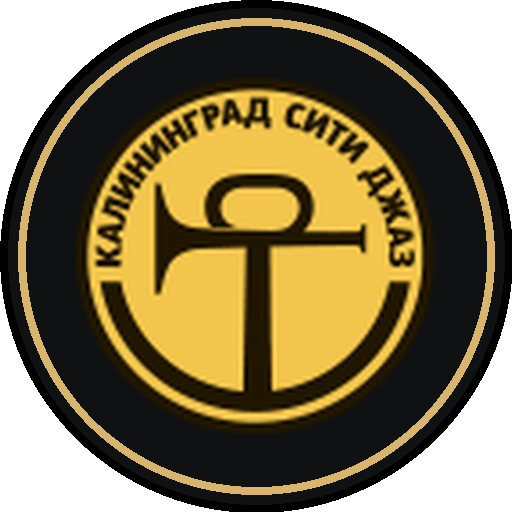
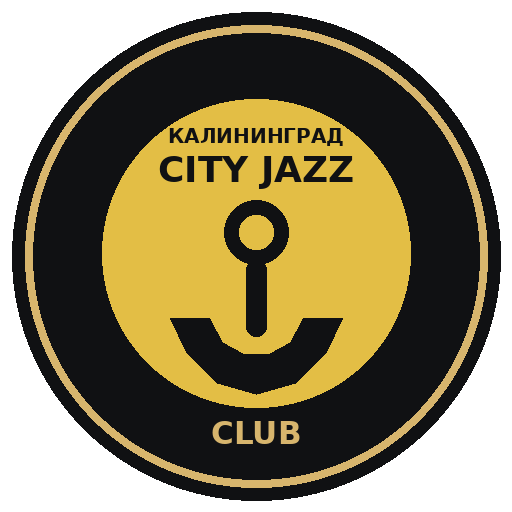
Fix venue medallion artwork QA

diff --git a/site/src/assets/organizers/source/README.md b/site/src/assets/organizers/source/README.md
@@ -1,6 +1,6 @@
 # Organizer medallion source assets
 
-Retrieved: 2026-06-29; `dom-kitoboya` social avatar rechecked 2026-07-01; SVG/WebP runtime pass checked 2026-07-02; venue gap medallions added 2026-07-03; venue visual tuning/WebP contract pass added 2026-07-04.
+Retrieved: 2026-06-29; `dom-kitoboya` social avatar rechecked 2026-07-01; SVG/WebP runtime pass checked 2026-07-02; venue gap medallions added 2026-07-03; venue visual tuning/WebP contract pass added 2026-07-04; seven-item Gemini/QA repair pass added 2026-07-04.
 
 These files are official/source-faithful inputs for the first event-page organizer medallions. Final runtime assets live in `site/public/assets/organizers/`.
 
@@ -21,15 +21,15 @@ These files are official/source-faithful inputs for the first event-page organiz
 | `dramteatr39` | Калининградский драматический театр | https://dramteatr39.ru/ | https://dramteatr39.ru/img/logo.svg?v=2 | `/assets/organizers/dramteatr39.svg` | Официальный горизонтальный SVG масштабирован и обрезан кругом до левого театрального знака; фон сделан фирменно-тёмным для белого исходника. |
 | `muzteatr39` | Калининградский музыкальный театр | https://muzteatr39.ru/ | https://muzteatr39.ru/wp-content/uploads/image_theme/logo2.png | `/assets/organizers/muzteatr39.webp` (`.png` fallback) | Официальный квадратный PNG пересобран как WebP-primary медальон без трассировки; фон затемнён для контраста белого знака. |
 | `dom-iskusstv` | Калининградский театр эстрады / Дом искусств | https://домискусств39.рф/ | https://static.tildacdn.com/tild3965-6438-4135-a233-383865633034/svg.svg | `/assets/organizers/dom-iskusstv.svg` | Официальный Tilda SVG wordmark Театра эстрады/Дома искусств встроен в круглый медальон. |
-| `city-jazz-club` | Калининград Сити Джаз Клуб | https://londonpub.ru/cityjazz/events | https://static.tildacdn.com/tild6331-6539-4430-a531-343262333939/logojazz.png | `/assets/organizers/city-jazz-club.webp` (`.png` fallback) | Логотип клубной площадки оттриммирован, отцентрирован и пересобран как WebP-primary; это отдельный venue-medallion, не фестивальный Kaliningrad City Jazz. |
-| `rostec-arena` | Ростех Арена | https://t.me/rostec_arena | public Telegram profile avatar | `/assets/organizers/rostec-arena.svg` | Чистый статический логотип на сайте не найден; форма взята из публичного Telegram-аватара официального канала и вручную пересобрана как чистый SVG с полным синим кругом. |
-| `bar-bastion` | Бар Бастион | https://vk.com/bar_bastion | public VK avatar `bar-bastion.vk-avatar-20260704.jpg` | `/assets/organizers/bar-bastion.webp` (`.png` fallback) | Публичный VK-аватар извлечён из страницы без VK API и заменяет временный initials badge. |
-| `signal` | Сигнал | https://signalcommunity.timepad.ru/ | Timepad organization logo `logo_org_265887.jpg` | `/assets/organizers/signal.webp` (`.png` fallback) | Timepad organization logo served WebP-primary; no edge-trace/vectorization. |
+| `city-jazz-club` | Калининград Сити Джаз Клуб | https://londonpub.ru/cityjazz/events | https://static.tildacdn.com/tild6331-6539-4430-a531-343262333939/logojazz.png (`recheck-20260704/city-jazz-club.official-logojazz.png`) | `/assets/organizers/city-jazz-club.svg` (+ PNG QA fallback) | Низкое разрешение official Tilda PNG больше не масштабируется как runtime raster: круглый знак вручную пересобран в crisp SVG с золотым диском, центральным якорным знаком и крупной читаемой подписью CITY JAZZ; это отдельный venue-medallion, не фестивальный Kaliningrad City Jazz. |
+| `rostec-arena` | Ростех Арена | https://www.rostec-arena.ru/ | https://www.rostec-arena.ru/theme/src/logo.svg (`recheck-20260704/rostec-arena.official-logo.svg`) | `/assets/organizers/rostec-arena.svg` (+ PNG QA fallback) | Официальный SVG-логотип сайта встроен без ручной перерисовки: сохранены фирменные голубые полосы и белый wordmark на синем градиентном круге. |
+| `bar-bastion` | Бар Бастион | https://vk.com/bar_bastion | public VK avatar `bar-bastion.vk-avatar-20260704.jpg` | `/assets/organizers/bar-bastion.webp` (`.png` fallback) | VK-аватар маскируется во внутренний круг, а золотая бренд-обводка рисуется последней; разрывы окружности от квадратного overlay устранены. |
+| `signal` | Сигнал | https://t.me/signalkld + https://signalcommunity.timepad.ru/ | Telegram avatar `recheck-20260704/signal.telegram-avatar-20260704.jpg`; Timepad `logo_org_265887.jpg` | `/assets/organizers/signal.svg` (+ PNG/WebP QA fallback) | Убран белый прямоугольник внутри тёмного круга; овальный знак «СИГНАЛ» аккуратно реконструирован как чистый SVG на белом круге; внутренние oval-strokes убраны, чтобы не было пересечений с текстом; без edge-trace shortcut. |
 | `mumod` | Музей курортной моды | https://mumod.ru/ | https://mumod.ru/wp-content/themes/mumod/images/logo.svg | `/assets/organizers/mumod.svg` | Официальный SVG-логотип с сайта музея встроен в светлый круглый медальон. |
 | `kldzoo` | Калининградский зоопарк | https://kldzoo.ru/ | https://kldzoo.ru/local/templates/s1/img/logo.png | `/assets/organizers/kldzoo.webp` (`.png` fallback) | Официальный квадратный PNG увеличен и отдаётся WebP-primary; внешняя салатовая обводка заменена на нейтральную. |
-| `locostandup` | Стендап-клуб «Локация» | https://t.me/locostandup | public Telegram profile avatar | `/assets/organizers/locostandup.webp` (`.png` fallback) | Использован публичный Telegram-аватар официального канала; runtime WebP-primary. |
-| `kaliningrad-art-museum` | Калининградский музей изобразительных искусств | https://kaliningradartmuseum.ru/ | https://kaliningradartmuseum.ru/local/templates/museum2023/images/logo-footer.png | `/assets/organizers/kaliningrad-art-museum.webp` (`.png` fallback) | Официальный footer PNG разложен как знак сверху и подпись ниже; runtime WebP-primary. |
+| `locostandup` | Стендап-клуб «Локация» | https://locostandup.ru/ | https://img3.creatium.ru/disk2/ee/53/e9/5338346aed3353ce0b7a71e35231aeda9e/lokaciya.svg (`recheck-20260704/locostandup.official-logo.svg`) | `/assets/organizers/locostandup.svg` (+ PNG/WebP QA fallback) | Telegram microphone avatar replaced by the official site vector wordmark; light circle + red brand ring removes the unfinished square/ring crop. |
+| `kaliningrad-art-museum` | Калининградский музей изобразительных искусств | https://www.kaliningradartmuseum.ru/ | homepage inline SVG `recheck-20260704/kaliningrad-art-museum.official-inline-logo.svg`; footer PNG still kept as source | `/assets/organizers/kaliningrad-art-museum.svg` (+ PNG QA fallback) | Фон заменён на официальный бордовый `#871B30` из SVG/CSS сайта; медальон стал SVG с официальным знаком сверху и читаемой короткой подписью `МУЗЕЙ ИЗО`. |
 | `brachert` | Дом-музей Германа Брахерта | https://hbrachert.ru/ | https://hbrachert.ru/bitrix/templates/brachert/images/logo-br.png | `/assets/organizers/brachert.webp` (`.png` fallback) | Официальный PNG-логотип hbrachert.ru отдаётся WebP-primary. |
-| `ruin-keepers` | Хранители руин | https://ruin-keepers.ru/ | official site PNG logo `ruin-keepers.logo.png` | `/assets/organizers/ruin-keepers.svg` | Официальный сайт даёт raster PNG-логотип; для медальона знак башни/сердца вручную реконструирован как простой векторный SVG. |
+| `ruin-keepers` | Хранители руин | https://ruin-keepers.ru/ | official 1-bit PNG logo `recheck-20260704/ruin-keepers.official-logo.png` | `/assets/organizers/ruin-keepers.svg` (+ PNG/WebP QA fallback) | Traced вариант отклонён на QA как недоделанный; знак вручную пересобран как чистый SVG по официальному мотиву башни/сердца: замкнутая башня и сердце без грубых пересечений. |
 
 No OpenAI image generation/editing was used. The medallions were produced by local SVG rendering/vectorization, official SVG wrapping, source cropping/recomposition, and PNG fallback export. If no SVG source/vector-safe source exists, browser-facing runtime assets should be WebP-first, with PNG only as fallback/QA; old public JPG/SVG-container raster medallions are not kept as primary runtime assets.

diff --git a/docs/features/static-site-pages/event-token-medallions.md b/docs/features/static-site-pages/event-token-medallions.md
@@ -166,22 +166,23 @@ Asset inventory:
 | `dramteatr39` | Калининградский драматический театр | `/assets/organizers/dramteatr39.svg` | official `dramteatr39.ru/img/logo.svg`, scaled/cropped to the left emblem |
 | `muzteatr39` | Калининградский музыкальный театр | `/assets/organizers/muzteatr39.webp` (`.png` fallback) | official square PNG, WebP-primary raster medallion, no tracing |
 | `dom-iskusstv` | Театр эстрады / Дом искусств | `/assets/organizers/dom-iskusstv.svg` | official Tilda SVG wordmark from `домискусств39.рф` |
-| `city-jazz-club` | Калининград Сити Джаз Клуб | `/assets/organizers/city-jazz-club.webp` (`.png` fallback) | club logo from `londonpub.ru/cityjazz/events`, trimmed/recentered, separate from festival medallion |
-| `rostec-arena` | Ростех Арена | `/assets/organizers/rostec-arena.svg` | manual-vector SVG rebuilt from the public Telegram avatar `@rostec_arena` |
-| `bar-bastion` | Бар Бастион | `/assets/organizers/bar-bastion.webp` (`.png` fallback) | public VK avatar extracted on 2026-07-04; replaces the temporary neutral initials badge |
-| `signal` | Сигнал | `/assets/organizers/signal.webp` (`.png` fallback) | Timepad organization logo, WebP-primary raster medallion |
+| `city-jazz-club` | Калининград Сити Джаз Клуб | `/assets/organizers/city-jazz-club.svg` | club logo from `londonpub.ru/cityjazz/events`, manually rebuilt as crisp vector with large readable CITY JAZZ lettering, separate from festival medallion |
+| `rostec-arena` | Ростех Арена | `/assets/organizers/rostec-arena.svg` | official site SVG `/theme/src/logo.svg` wrapped into the medallion; no Telegram-avatar redraw |
+| `bar-bastion` | Бар Бастион | `/assets/organizers/bar-bastion.webp` (`.png` fallback) | public VK avatar extracted on 2026-07-04; inner avatar mask and ring-on-top repair remove broken-circle artifacts |
+| `signal` | Сигнал | `/assets/organizers/signal.svg` | clean SVG reconstruction from the official Signal oval logo; internal oval strokes were removed so nothing crosses the wordmark |
 | `mumod` | Музей курортной моды | `/assets/organizers/mumod.svg` | official SVG from `mumod.ru` |
 | `kldzoo` | Калининградский зоопарк | `/assets/organizers/kldzoo.webp` (`.png` fallback) | official square PNG from `kldzoo.ru`, enlarged and WebP-primary |
-| `locostandup` | Стендап-клуб «Локация» | `/assets/organizers/locostandup.webp` (`.png` fallback) | public Telegram avatar `@locostandup`, WebP-primary raster medallion |
-| `kaliningrad-art-museum` | Калининградский музей изобразительных искусств | `/assets/organizers/kaliningrad-art-museum.webp` (`.png` fallback) | official footer PNG logo split into mark-above/wordmark-below composition |
+| `locostandup` | Стендап-клуб «Локация» | `/assets/organizers/locostandup.svg` | official vector wordmark from `locostandup.ru`, replacing the unfinished Telegram-avatar crop |
+| `kaliningrad-art-museum` | Калининградский музей изобразительных искусств | `/assets/organizers/kaliningrad-art-museum.svg` | official inline SVG mark on brand burgundy `#871B30`, with readable short label `МУЗЕЙ ИЗО` |
 | `brachert` | Дом-музей Германа Брахерта | `/assets/organizers/brachert.webp` (`.png` fallback) | official PNG from `hbrachert.ru`, WebP-primary raster medallion |
-| `ruin-keepers` | Хранители руин | `/assets/organizers/ruin-keepers.svg` | official site PNG logo mark from `ruin-keepers.ru`, manually reconstructed as source-faithful vector SVG |
+| `ruin-keepers` | Хранители руин | `/assets/organizers/ruin-keepers.svg` | clean manual SVG reconstruction from the official `ruin-keepers.ru` tower/heart motif after traced SVG QA was rejected |
 
 2026-07-04 venue visual tuning pass:
 
-- `rostec-arena`, `city-jazz-club`, `bar-bastion`, `mumod`, `kldzoo` and `kaliningrad-art-museum` were visually retuned after desktop/mobile QA feedback;
-- `bar-bastion` now uses the public VK avatar instead of the temporary neutral initials badge;
-- `ruin-keepers` was added as a vector organizer medallion from the official site logo mark;
+- `rostec-arena` was switched from a Telegram-avatar approximation to the official site SVG lockup;
+- `signal`, `locostandup`, `city-jazz-club`, `kaliningrad-art-museum` and `ruin-keepers` were reworked after critical QA/Gemini feedback: Signal loses the rectangular card, Location uses the official vector wordmark, City Jazz becomes vector, the Art Museum uses official burgundy `#871B30`, and Ruin Keepers uses a clean manual SVG reconstruction after the traced PNG vectorization was rejected on QA;
+- `bar-bastion` keeps the public VK avatar but masks the image before drawing the gold ring, so the circle no longer breaks;
+- `mumod`, `kldzoo` and earlier `kaliningrad-art-museum` sizing fixes remain from the preceding visual tuning pass;
 - runtime contract was tightened: raster/non-vector medallions in organizer/festival manifests are served as WebP primary with PNG fallback, while SVG runtime is reserved for true vector/manual-vector/official-SVG marks.
 
 ### Festival logo medallions
